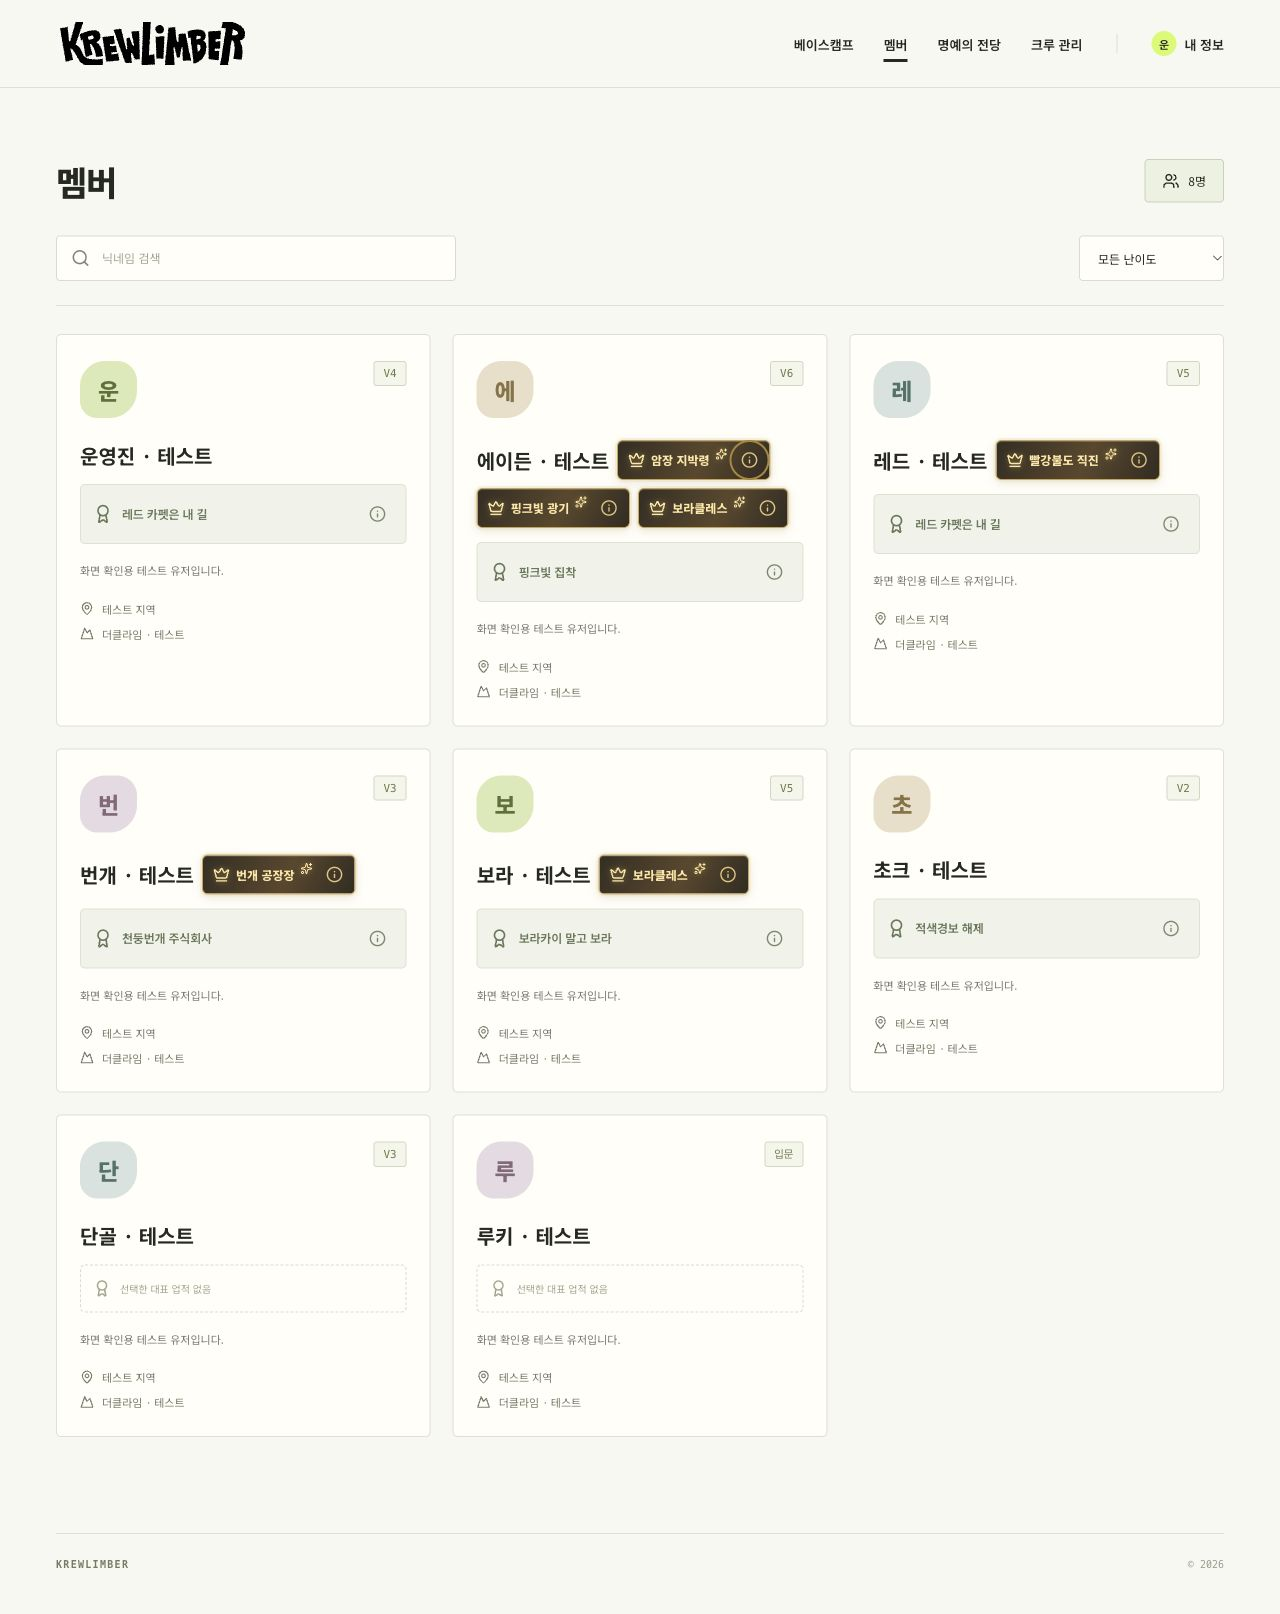
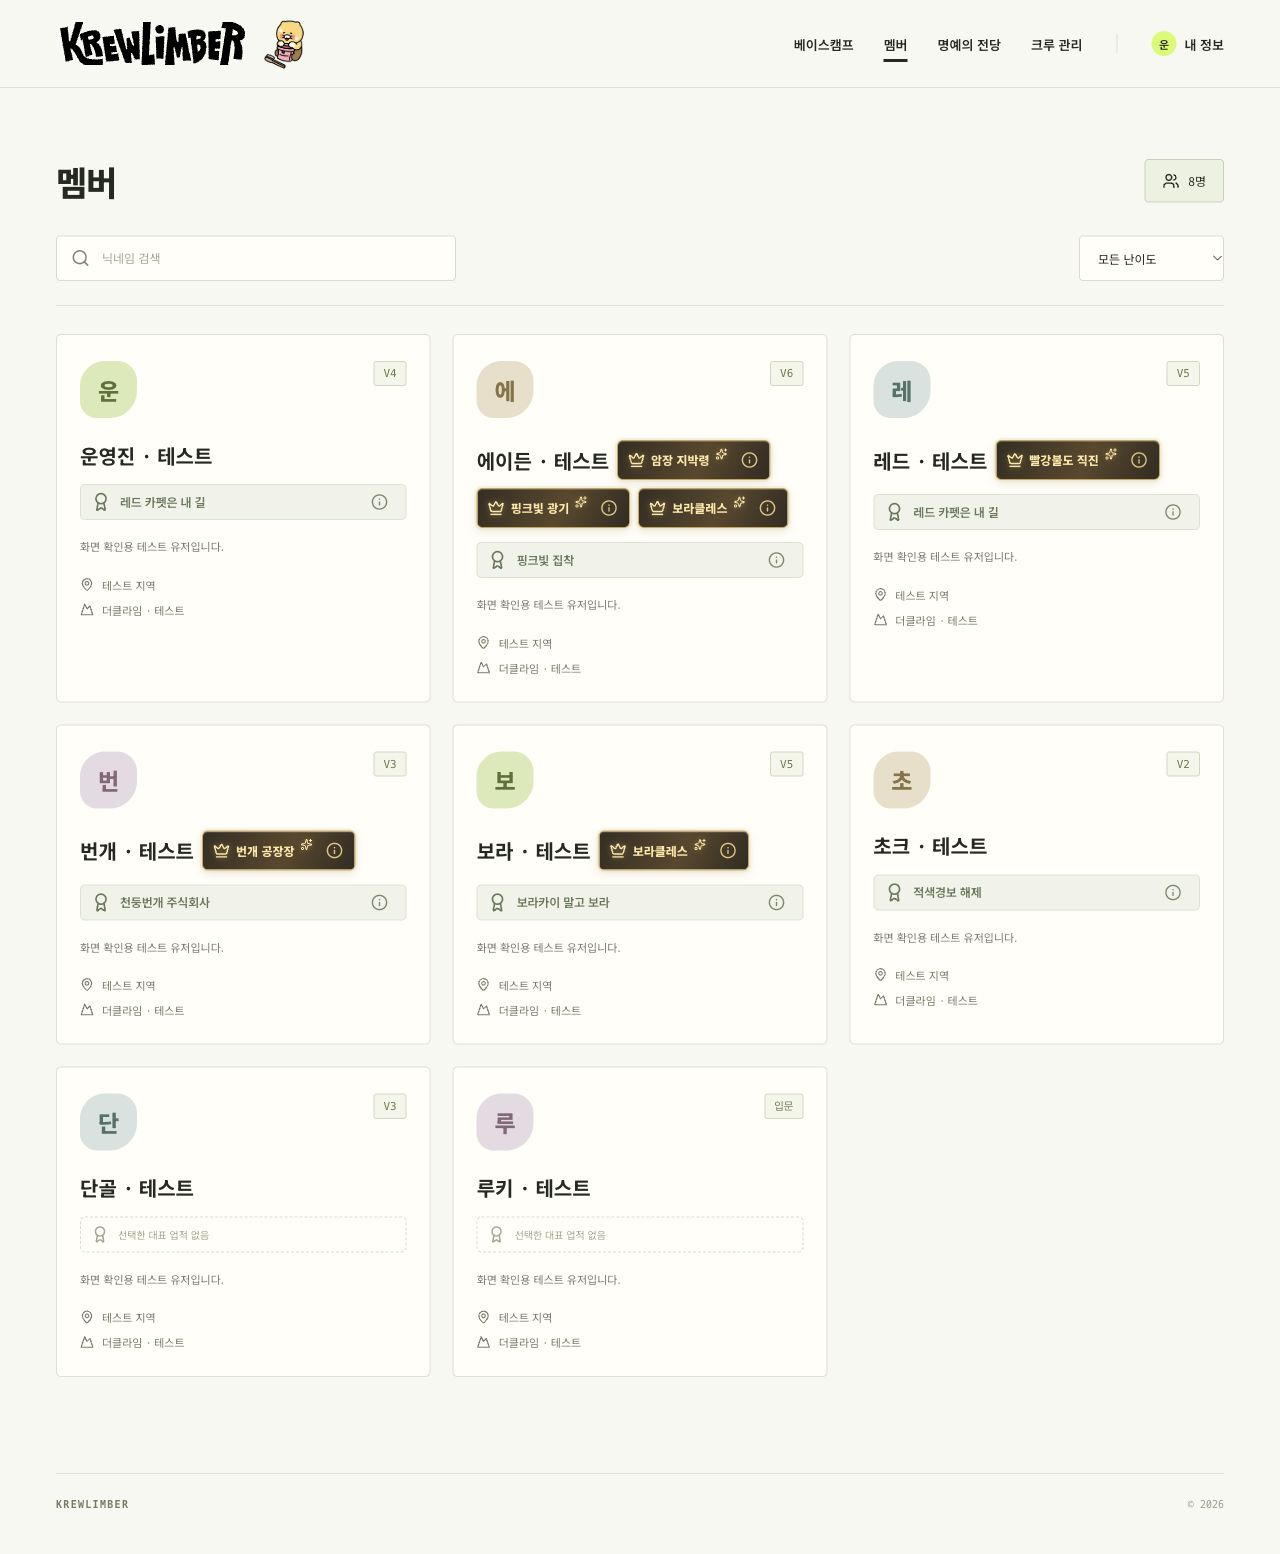
feat: apply club mascot and social images

diff --git a/server/index.ts b/server/index.ts
@@ -1,9 +1,11 @@
+import {readFileSync} from 'node:fs';
 import {resolve} from 'node:path';
 import express from 'express';
 import {config} from 'dotenv';
 import {createApp} from './app';
 import {openDatabase} from './db';
 import {environmentFile} from './environment';
+import {renderSiteMetadata} from './metadata';
 
 const production = process.env.NODE_ENV === 'production';
 config({path: resolve(environmentFile(process.env)), quiet: true});
@@ -19,11 +21,22 @@ const db = openDatabase(process.env.DATABASE_PATH ?? './data/krewlimber.sqlite')
 const app = createApp({db, origin, secureCookies: production, trustProxy});
 
 if (production) {
-  app.use(express.static(resolve('dist')));
-  app.get('/{*path}', (_req, res) => res.sendFile(resolve('dist/index.html')));
+  const html = renderSiteMetadata(readFileSync(resolve('dist/index.html'), 'utf8'), origin);
+  app.get(['/', '/index.html'], (_req, res) => res.type('html').send(html));
+  app.use(express.static(resolve('dist'), {index: false}));
+  app.get('/{*path}', (_req, res) => res.type('html').send(html));
 } else {
   const {createServer} = await import('vite');
-  const vite = await createServer({server: {middlewareMode: true, hmr: {port: port + 1}}, appType: 'spa'});
+  const vite = await createServer({
+    server: {middlewareMode: true, hmr: {port: port + 1}},
+    appType: 'spa',
+    plugins: [
+      {
+        name: 'runtime-site-metadata',
+        transformIndexHtml: {order: 'pre', handler: html => renderSiteMetadata(html, origin)},
+      },
+    ],
+  });
   app.use(vite.middlewares);
 }
 const server = app.listen(port, process.env.HOST ?? '127.0.0.1', () => console.log(`KREWLIMBER: ${origin}`));

diff --git a/index.html b/index.html
@@ -5,7 +5,22 @@
     <meta name="viewport" content="width=device-width, initial-scale=1.0" />
     <meta name="theme-color" content="#d5fa62" />
     <meta name="description" content="크루라이머 사내 클라이밍 동호회 회원 전용 공간." />
-    <link rel="icon" href="/favicon.svg" type="image/svg+xml" />
+    <link rel="icon" href="/chun-sik-01.webp" type="image/webp" />
+    <meta property="og:type" content="website" />
+    <meta property="og:site_name" content="KREWLIMBER" />
+    <meta property="og:title" content="KREWLIMBER — 사내 클라이밍 동호회" />
+    <meta property="og:description" content="크루라이머 사내 클라이밍 동호회 회원 전용 공간." />
+    <meta property="og:url" content="__APP_ORIGIN__" />
+    <meta property="og:image" content="__APP_ORIGIN__/chun-sik-02.webp" />
+    <meta property="og:image:type" content="image/webp" />
+    <meta property="og:image:width" content="1080" />
+    <meta property="og:image:height" content="1080" />
+    <meta property="og:image:alt" content="초크백을 준비하는 춘식이" />
+    <meta name="twitter:card" content="summary_large_image" />
+    <meta name="twitter:title" content="KREWLIMBER — 사내 클라이밍 동호회" />
+    <meta name="twitter:description" content="크루라이머 사내 클라이밍 동호회 회원 전용 공간." />
+    <meta name="twitter:image" content="__APP_ORIGIN__/chun-sik-02.webp" />
+    <meta name="twitter:image:alt" content="초크백을 준비하는 춘식이" />
     <title>KREWLIMBER — 사내 클라이밍 동호회</title>
   </head>
   <body>

diff --git a/src/styles.css b/src/styles.css
@@ -1645,8 +1645,15 @@ form input:invalid:not(:placeholder-shown):not(:focus) {
 }
 
 .brand-link {
-  display: block;
+  display: flex;
+  align-items: center;
+  gap: 10px;
   flex-shrink: 0;
+}
+.brand-mascot {
+  width: 56px;
+  height: 56px;
+  object-fit: contain;
 }
 .brand-large {
   width: min(285px, 100%);
@@ -1945,8 +1952,8 @@ form input:invalid:not(:placeholder-shown):not(:focus) {
   border: 1px solid #dce3d0;
   color: #687859;
   border-radius: 5px;
-  padding: 13px 12px;
-  min-height: 48px;
+  padding: 1px 10px;
+  min-height: 36px;
 }
 .member-featured strong {
   flex: 1;
@@ -1959,7 +1966,6 @@ form input:invalid:not(:placeholder-shown):not(:focus) {
   background: transparent;
   border: 1px dashed #d8ddce;
   color: #a0a78e;
-  min-height: 48px;
 }
 .member-featured-empty span {
   font-size: 10px;
@@ -2660,5 +2666,33 @@ form input:invalid:not(:placeholder-shown):not(:focus) {
     padding-left: 8px;
     padding-right: 6px;
     gap: 8px;
+  }
+}
+
+.auth-aside-mascot {
+  padding: 0;
+  justify-content: center;
+  align-items: center;
+  background: #f6edcc;
+}
+.auth-aside-mascot::after {
+  display: none;
+}
+.auth-aside-mascot > img {
+  display: block;
+  width: 100%;
+  height: auto;
+  object-fit: contain;
+}
+@media (max-width: 580px) {
+  .brand-mascot {
+    width: 48px;
+    height: 48px;
+  }
+  .auth-aside-mascot {
+    min-height: 0;
+  }
+  .auth-aside-mascot > img {
+    height: 240px;
   }
 }

diff --git a/tests/metadata.test.ts b/tests/metadata.test.ts
@@ -1,0 +1,24 @@
+// @vitest-environment jsdom
+import {readFileSync} from 'node:fs';
+import {resolve} from 'node:path';
+import {expect, it} from 'vitest';
+import {renderSiteMetadata} from '../server/metadata';
+
+it.each(['http://127.0.0.1:4177', 'https://crew.example.com'])(
+  'renders social metadata using the runtime site origin %s',
+  origin => {
+    const html = readFileSync(resolve('index.html'), 'utf8');
+    const document = new DOMParser().parseFromString(renderSiteMetadata(html, origin), 'text/html');
+    expect(document.querySelector('meta[property="og:image"]')?.getAttribute('content')).toBe(
+      `${origin}/chun-sik-02.webp`
+    );
+    expect(document.querySelector('meta[property="og:image:type"]')?.getAttribute('content')).toBe('image/webp');
+    expect(document.querySelector('meta[name="twitter:image"]')?.getAttribute('content')).toBe(
+      `${origin}/chun-sik-02.webp`
+    );
+    expect(new URL(document.querySelector('link[rel="icon"]')!.getAttribute('href')!, origin).href).toBe(
+      `${origin}/chun-sik-01.webp`
+    );
+    expect(document.querySelector('meta[property="og:url"]')?.getAttribute('content')).toBe(origin);
+  }
+);

diff --git a/src/pages/Auth.tsx b/src/pages/Auth.tsx
@@ -44,9 +44,15 @@ export function Auth({mode}: {mode: 'login' | 'signup' | 'recover'}) {
   }
   return (
     <div className="auth-shell">
-      <aside className="auth-aside auth-aside-logo">
-        <BrandLogo size="large" />
-        <ClimbingArt />
+      <aside className={`auth-aside ${signup ? 'auth-aside-mascot' : 'auth-aside-logo'}`}>
+        {signup ? (
+          <img src="/chun-sik-02.webp" alt="초크백을 준비하는 춘식이" width={1080} height={1080} />
+        ) : (
+          <>
+            <BrandLogo size="large" />
+            <ClimbingArt />
+          </>
+        )}
       </aside>
       <section className="auth-form-wrap">
         <h1>{recovery ? '비밀번호 재설정' : signup ? '회원 가입' : '로그인'}</h1>

diff --git a/src/components/Layout.tsx b/src/components/Layout.tsx
@@ -20,6 +20,7 @@ export function Layout() {
         <div className="header-inner">
           <Link to="/" className="brand-link" aria-label="크루라이머 홈" onClick={() => setMenuOpen(false)}>
             <BrandLogo size="header" />
+            <img className="brand-mascot" src="/chun-sik-01.webp" alt="" width={56} height={56} />
           </Link>
           <button
             className="menu-toggle"

diff --git a/server/metadata.ts b/server/metadata.ts
@@ -1,0 +1,3 @@
+export function renderSiteMetadata(html: string, origin: string): string {
+  return html.replaceAll('__APP_ORIGIN__', origin);
+}
